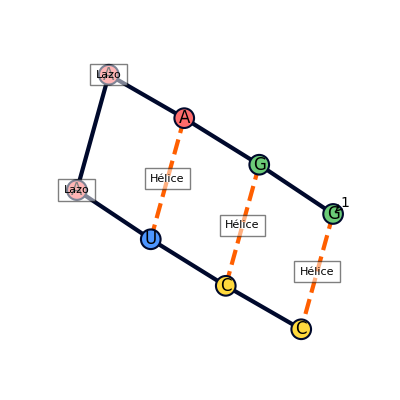
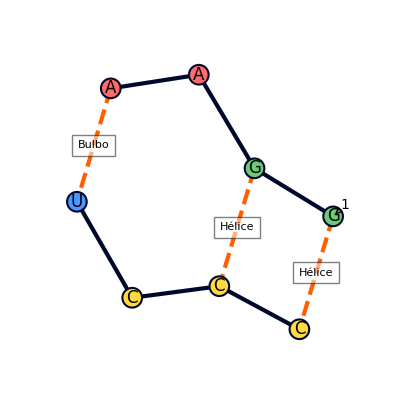
Star alignment finished

Changed region(s): [[0.12, 0.15, 0.87, 0.87], [0.33, 0.54, 0.48, 0.66]]

diff --git a/templates/star_alignment.html b/templates/star_alignment.html
@@ -6,11 +6,14 @@
         width: 10%;
         border-collapse: collapse;
     }
-    th, td {
+
+    th,
+    td {
         border: 2px solid #681d1d;
         padding: 8px;
         text-align: center;
     }
+
     th {
         background-color: #f51111;
         color: #333;
@@ -38,36 +41,32 @@
         <p> Input numero S1: {{ sequence1 }}</p>
         <p> Input numero S2: {{ sequence2 }}</p>
         {% for sequence in additional_sequences %}
-            <p>Input numero S{{ loop.index + 2 }}: {{ sequence }}</p>
+        <p>Input numero S{{ loop.index + 2 }}: {{ sequence }}</p>
         {% endfor %}
         <h3>Matriz de Score</h3>
         <table>
             {% for row in result %}
-                <tr>
-                    {% for item in row %}
-                        <td>{{ item }}</td>
-                    {% endfor %}
-                </tr>
+            <tr>
+                {% for item in row %}
+                <td>{{ item }}</td>
+                {% endfor %}
+            </tr>
             {% endfor %}
         </table>
         <h3>Secuencia Central</h3>
-        <p>La secuencia central es <strong>{{ find_secuencia_central[0] }}</strong> con la suma de score de <strong>{{ find_secuencia_central[1] }}</strong></p>
+        <p>La secuencia central es <strong>{{ find_secuencia_central[0] }}</strong> con la suma de score de <strong>{{
+                find_secuencia_central[1] }}</strong></p>
     </div>
     <div class="column">
         <h3>Secuencias alineadas con <strong>{{ find_secuencia_central[0] }}</strong>:</h3>
-        <p> {{alignments_star}}</p>
-        <ul>alineamiento 1 </ul>
-        <ul>alineamiento 2 </ul>
-        <ul>alineamiento 3 </ul>
-        <ul>alineamiento 4 </ul>
+        {% for al in aligned_sequences %}
+        <ul>Alineamiento {{loop.index}}: {{al}}</ul>
+        {% endfor %}
 
         <h3>Alineamiento Multiple <strong>{{ find_secuencia_central[0] }}</strong>:</h3>
-        <p> {{alignments_star}}</p>
-        <ul>alineamiento 1 </ul>
-        <ul>alineamiento 2 </ul>
-        <ul>alineamiento 3 </ul>
-        <ul>alineamiento 4 </ul>
-
+        {% for m in msa %}
+        <ul>{{m}}</ul>
+        {% endfor %}
     </div>
 
 </div>

diff --git a/algorithms/secondary_structure.py b/algorithms/secondary_structure.py
@@ -2,9 +2,10 @@ import sys
 import networkx as nx
 import matplotlib.pyplot as plt
 
+
 def calculate_energy_matrix(sequence, alpha):
     n = len(sequence)
-    E = [[0] * n for _ in range(n)]  
+    E = [[0] * n for _ in range(n)]
 
     for d in range(1, n):
         for i in range(n - d):
@@ -19,7 +20,8 @@ def calculate_energy_matrix(sequence, alpha):
 
             # Caso 3: E(i+1, j-1) + α(ri, rj)
             if sequence[i] + sequence[j] in ['CG', 'GC', 'AU', 'UA']:
-                min_energy = min(min_energy, E[i + 1][j - 1] + alpha[sequence[i] + sequence[j]])
+                min_energy = min(
+                    min_energy, E[i + 1][j - 1] + alpha[sequence[i] + sequence[j]])
 
             # Caso 4: min{E(i, k-1) + E(k, j)} para i < k ≤ j
             for k in range(i + 1, j):
@@ -29,6 +31,7 @@ def calculate_energy_matrix(sequence, alpha):
 
     return E
 
+
 def predict_secondary_structure(sequence, alpha):
     n = len(sequence)
     E = calculate_energy_matrix(sequence, alpha)
@@ -37,9 +40,10 @@ def predict_secondary_structure(sequence, alpha):
 
     return E, score
 
+
 def traceback(sequence, E, alpha):
     n = len(sequence)
-    traceback_pairs = ["."] * n 
+    traceback_pairs = ["."] * n
     paired_positions = []
 
     def traceback_helper(i, j):
@@ -49,7 +53,7 @@ def traceback(sequence, E, alpha):
             return
 
         if sequence[i] + sequence[j] in ['CG', 'GC', 'AU', 'UA'] and E[i][j] == E[i + 1][j - 1] + alpha[sequence[i] + sequence[j]]:
-            paired_positions.append((i + 1, j + 1))  
+            paired_positions.append((i + 1, j + 1))
             traceback_helper(i + 1, j - 1)
             return
 
@@ -57,28 +61,29 @@ def traceback(sequence, E, alpha):
         if E[i][j] == E[i + 1][j]:
             traceback_helper(i + 1, j)
             return
-        
+
         # Caso 2: E(i, j-1)
         if E[i][j] == E[i][j - 1]:
             traceback_helper(i, j - 1)
             return
-        
+
         else:
-        # Caso 4: min{E(i, k-1) + E(k, j)} para i < k ≤ j
+            # Caso 4: min{E(i, k-1) + E(k, j)} para i < k ≤ j
             for k in range(i + 1, j):
                 if E[i][j] == E[i][k - 1] + E[k][j]:
                     traceback_helper(i, k - 1)
                     traceback_helper(k, j)
                     break
-                
+
     traceback_helper(0, n - 1)
     return traceback_pairs, paired_positions
+
 
 def identify_structures(sequence, pairs):
     structures = []
     visited = [False] * len(sequence)
     pairs_dict = {i: j for i, j in pairs}
-    
+
     # Identificar Bulbos y Hélices
     for i, j in pairs:
         if not visited[i-1] and not visited[j-1]:
@@ -87,26 +92,28 @@ def identify_structures(sequence, pairs):
                 structures.append((i, j, "Bulbo"))
             else:
                 structures.append((i, j, "Hélice"))
-    
-    unpaired = set(range(1, len(sequence) + 1)) - {i for pair in pairs for i in pair}
-    
+
+    unpaired = set(range(1, len(sequence) + 1)) - \
+        {i for pair in pairs for i in pair}
+
     # Identificar Bucles
     for i in unpaired:
         if (i + 1 in unpaired) or (i - 1 in unpaired):
             structures.append((i, i, "Lazo"))
-    
+
     # Identificar Bucles Internos
     for i, j in pairs:
         if (i - 1 in pairs_dict) and (pairs_dict[i - 1] == j + 1):
             if abs(i - (i - 1)) > 1 and abs(j - (j + 1)) > 1:
                 structures.append((i, j, "Bucle Interno"))
-    
-    # Identificar Lazos
+
+    # Identificar Bucle
     for i, j in pairs:
         if (i + 1 in unpaired) and (j - 1 in unpaired) and ((i + 1, j - 1) not in pairs):
             structures.append((i, j, "Bucle"))
-    
+
     return structures
+
 
 def plotData(sequence, matches, output_file):
     plt.figure(figsize=(max(4, len(sequence)/8), max(4, len(sequence)/8)))
@@ -130,13 +137,15 @@ def plotData(sequence, matches, output_file):
 
     pos = nx.kamada_kawai_layout(G)
 
-    nx.draw_networkx_nodes(G, pos, node_color=nx.get_node_attributes(G, "color").values(), node_size=200, edgecolors="#00092C", linewidths=1.5)
+    nx.draw_networkx_nodes(G, pos, node_color=nx.get_node_attributes(
+        G, "color").values(), node_size=200, edgecolors="#00092C", linewidths=1.5)
     nx.draw_networkx_labels(G, pos, labels=nx.get_node_attributes(G, "base"))
 
     edge_colors = nx.get_edge_attributes(G, "color").values()
     edge_styles = nx.get_edge_attributes(G, "style").values()
     edges = G.edges()
-    nx.draw_networkx_edges(G, pos, edgelist=edges, edge_color=edge_colors, style=edge_styles, width=3)
+    nx.draw_networkx_edges(G, pos, edgelist=edges,
+                           edge_color=edge_colors, style=edge_styles, width=3)
     structures = identify_structures(sequence, matches)
     labeled_positions = set()
 
@@ -146,39 +155,22 @@ def plotData(sequence, matches, output_file):
             if (i, j) not in labeled_positions:
                 x = (pos[i][0] + pos[j][0]) / 2
                 y = (pos[i][1] + pos[j][1]) / 2
-                plt.text(x, y, name, fontsize=8, ha='center', va='center', bbox=dict(facecolor='white', alpha=0.5))
+                plt.text(x, y, name, fontsize=8, ha='center',
+                         va='center', bbox=dict(facecolor='white', alpha=0.5))
                 labeled_positions.add((i, j))
-                labeled_positions.add((j, i))  
+                labeled_positions.add((j, i))
         else:
             i, name = structure
             if i not in labeled_positions:
                 x, y = pos[i]
-                plt.text(x, y, name, fontsize=8, ha='center', va='center', bbox=dict(facecolor='white', alpha=0.5))
+                plt.text(x, y, name, fontsize=8, ha='center',
+                         va='center', bbox=dict(facecolor='white', alpha=0.5))
                 labeled_positions.add(i)
 
     for i in range(0, len(sequence), 10):
-        plt.annotate(str(i+1), xy=pos[i+1], xytext=(5, 5), textcoords='offset points', arrowprops=dict(arrowstyle="->", color='black'))
+        plt.annotate(str(i+1), xy=pos[i+1], xytext=(
+            5, 5), textcoords='offset points', arrowprops=dict(arrowstyle="->", color='black'))
 
     plt.axis('off')
     plt.savefig(output_file)
     plt.close()
-
-# seq = "ucaagcguuagagaagucauuaugugauaaaaaaauucaacuugguaucaacuuaacuaa"
-# sequence = seq.upper()
-# alpha = {"CG": -1, "GC": -1, "AU": -1, "UA": -1}
-
-# energy_matrix, final_score = predict_secondary_structure(sequence, alpha)
-# traceback_structure, paired_positions = traceback(sequence, energy_matrix, alpha)
-
-# sys.stdout = open('output.txt', 'w')
-
-# print("Matriz de Energia:")
-# print("\t" + "\t".join(sequence))  
-# for i in range(len(energy_matrix)):
-#     print(sequence[i] + "\t" + "\t".join(map(str, energy_matrix[i])))  
-
-# print("\nScore Final:", final_score)
-
-# output_image = 'static/result_img/grafico.png'
-# plotData(sequence, paired_positions, output_image)
-# sys.stdout.close()

diff --git a/app.py b/app.py
@@ -9,10 +9,10 @@ from algorithms.sub_cadena import calcular_score  # type: ignore
 from algorithms.alineamiento_global import needleman_wunsch_score, globalTraceback  # type: ignore
 from algorithms.local_alignment import smith_waterman
 from algorithms.clustering import clustering
-from algorithms.star_alignment import needleman_wunsch_alignment_star, encontrar_secuencia_central
+from algorithms.star_alignment import needleman_wunsch_alignment_star, encontrar_secuencia_central, align_to_center, merge_alignments
 from algorithms.matriz_punto import dot_matrix, plot_dot_matrix  # type: ignore
 from algorithms.blosum_protein import align_sequences, calculate_alignment_metrics, format_alignment_output, calculate_alignment_score
-from algorithms.estructure_secondary import calculate_energy_matrix, predict_secondary_structure, traceback, plotData, identify_structures
+from algorithms.secondary_structure import predict_secondary_structure, traceback, plotData
 from algorithms.upgma import get_clustering_levels, read_distance_matrix, compute_linkage, calculate_distances_and_differences, plot_dendrogram_with_distances
 from scipy.spatial.distance import squareform
 from scipy.cluster.hierarchy import dendrogram, linkage
@@ -142,7 +142,16 @@ def analizar():
         result = needleman_wunsch_alignment_star(
             sequences, match, mismatch, gap)
         find_secuencia_central = encontrar_secuencia_central(result)
-        return render_template('star_alignment.html', sequences=sequences, find_secuencia_central=find_secuencia_central, sequence1=sequence1, sequence2=sequence2, additional_sequences=additional_sequences, result=result, match=match, mismatch=mismatch, gap=gap, operation=operation)
+        index = find_secuencia_central[2]
+        aligned_sequences = align_to_center(
+            sequences, index, match, mismatch, gap)
+        print(len(aligned_sequences))
+        center_seq = sequences[index].ljust(
+            max(len(seq) for seq in sequences), '-')
+        msa = merge_alignments(center_seq, aligned_sequences)
+
+        return render_template('star_alignment.html', sequences=sequences, find_secuencia_central=find_secuencia_central, sequence1=sequence1,
+                               sequence2=sequence2, additional_sequences=additional_sequences, result=result, match=match, mismatch=mismatch, gap=gap, operation=operation, aligned_sequences=aligned_sequences, msa=msa)
 
     elif operation == 'Clustering Distancia Mínima':
         matrix_input = request.form.get("distanceMatrix")

diff --git a/algorithms/star_alignment.py b/algorithms/star_alignment.py
@@ -51,10 +51,9 @@ def needleman_wunsch_alignment_star(sequences, match, mismatch, gap):
 
 def encontrar_secuencia_central(matriz_puntuacion_final):
     n = len(matriz_puntuacion_final)
-    print(matriz_puntuacion_final)
     max_sum = float('-inf')
     central_sequence = None
-
+    central_index = 0
     for i in range(1, n):
         sum_distance = 0
         for j in range(1, n):
@@ -64,39 +63,13 @@ def encontrar_secuencia_central(matriz_puntuacion_final):
         if sum_distance > max_sum:
             max_sum = sum_distance
             central_sequence = matriz_puntuacion_final[i][0]
-
-    return central_sequence, max_sum
+            central_index = i-1
+    return central_sequence, max_sum, central_index
 
 
 def pairwise_distance(seq1, seq2, match, mismatch, gap):
     score, _ = needleman_wunsch_score(seq1, seq2, match, mismatch, gap)
     return score
-
-
-def create_distance_matrix(sequences, match, mismatch, gap):
-    num_sequences = len(sequences)
-    distance_matrix = [[0] * num_sequences for _ in range(num_sequences)]
-    for i in range(num_sequences):
-        for j in range(i + 1, num_sequences):
-            score = pairwise_distance(
-                sequences[i], sequences[j], match, mismatch, gap)
-            distance_matrix[i][j] = distance_matrix[j][i] = score
-    return distance_matrix
-
-
-def find_center_sequence(distance_matrix):
-    max_score = float('-inf')
-    star = 0
-    index = 0
-    for i in distance_matrix:
-        sum = 0
-        for j in i:
-            sum += j
-        if sum > max_score:
-            max_score = sum
-            star = index
-        index += 1
-    return star
 
 
 def align_to_center(sequences, center_index, match, mismatch, gap):
